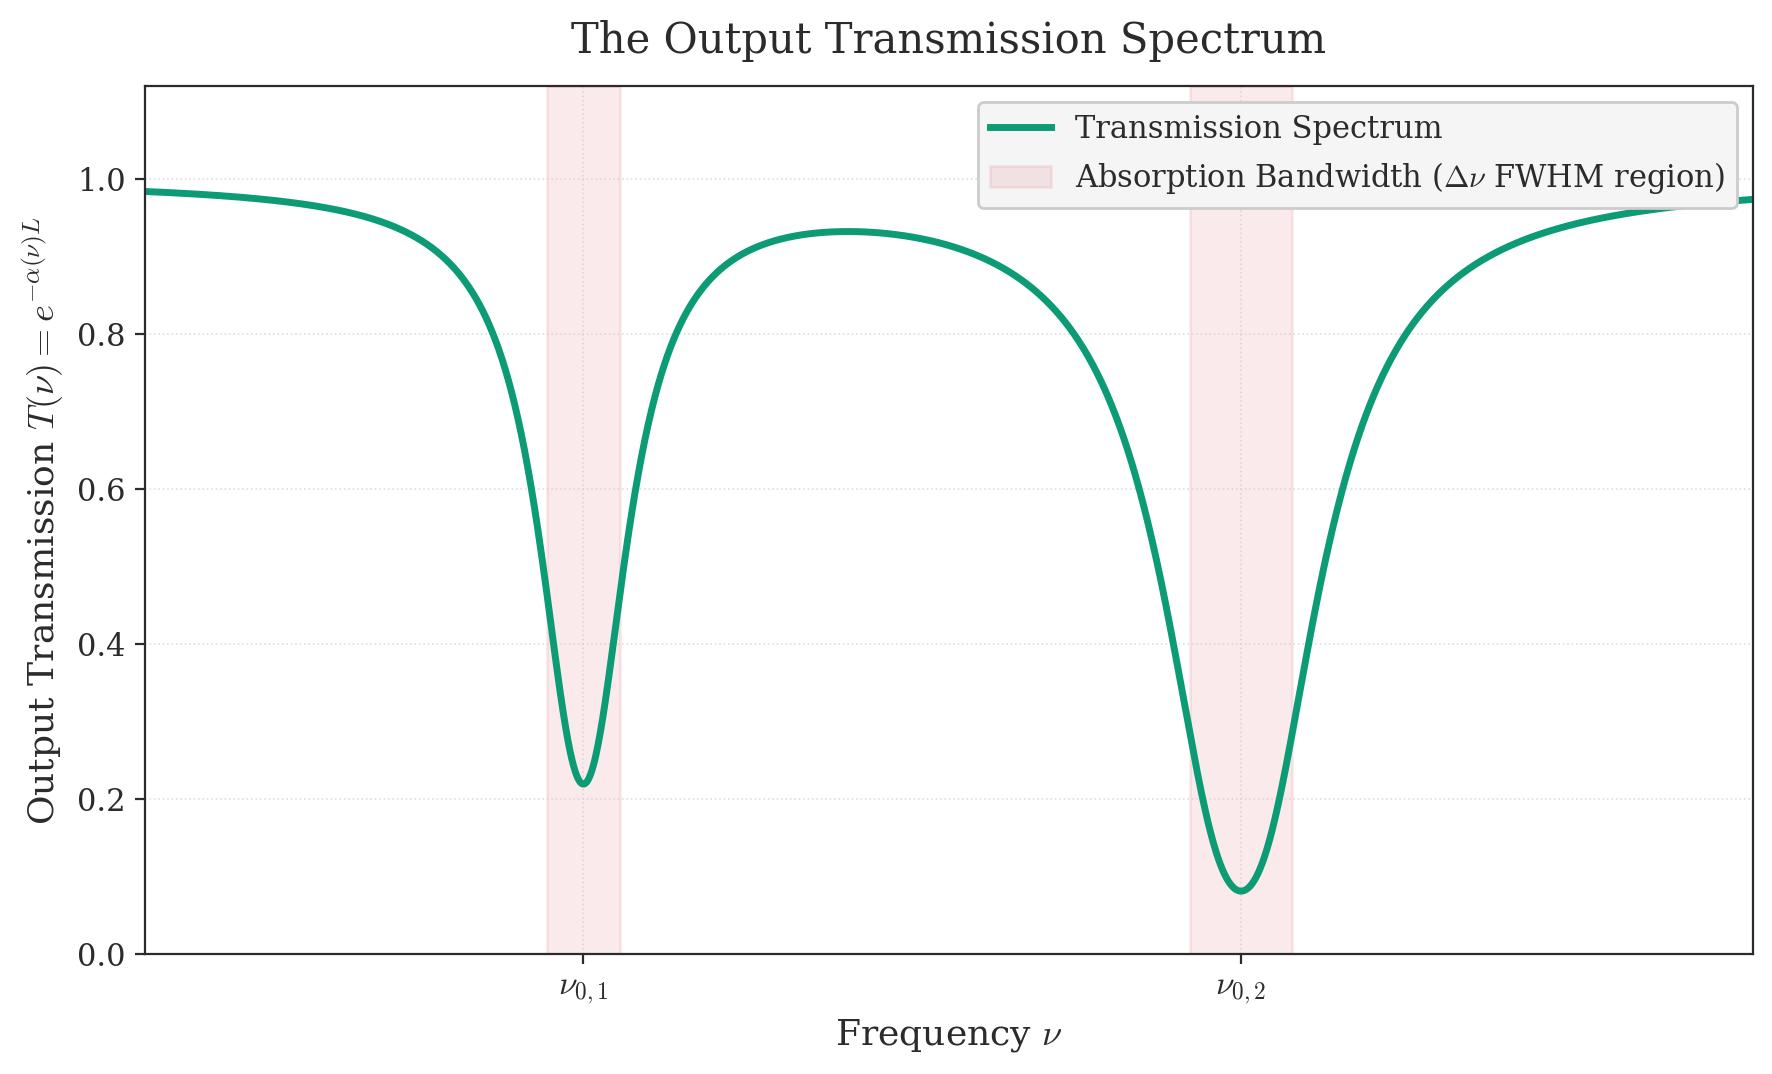
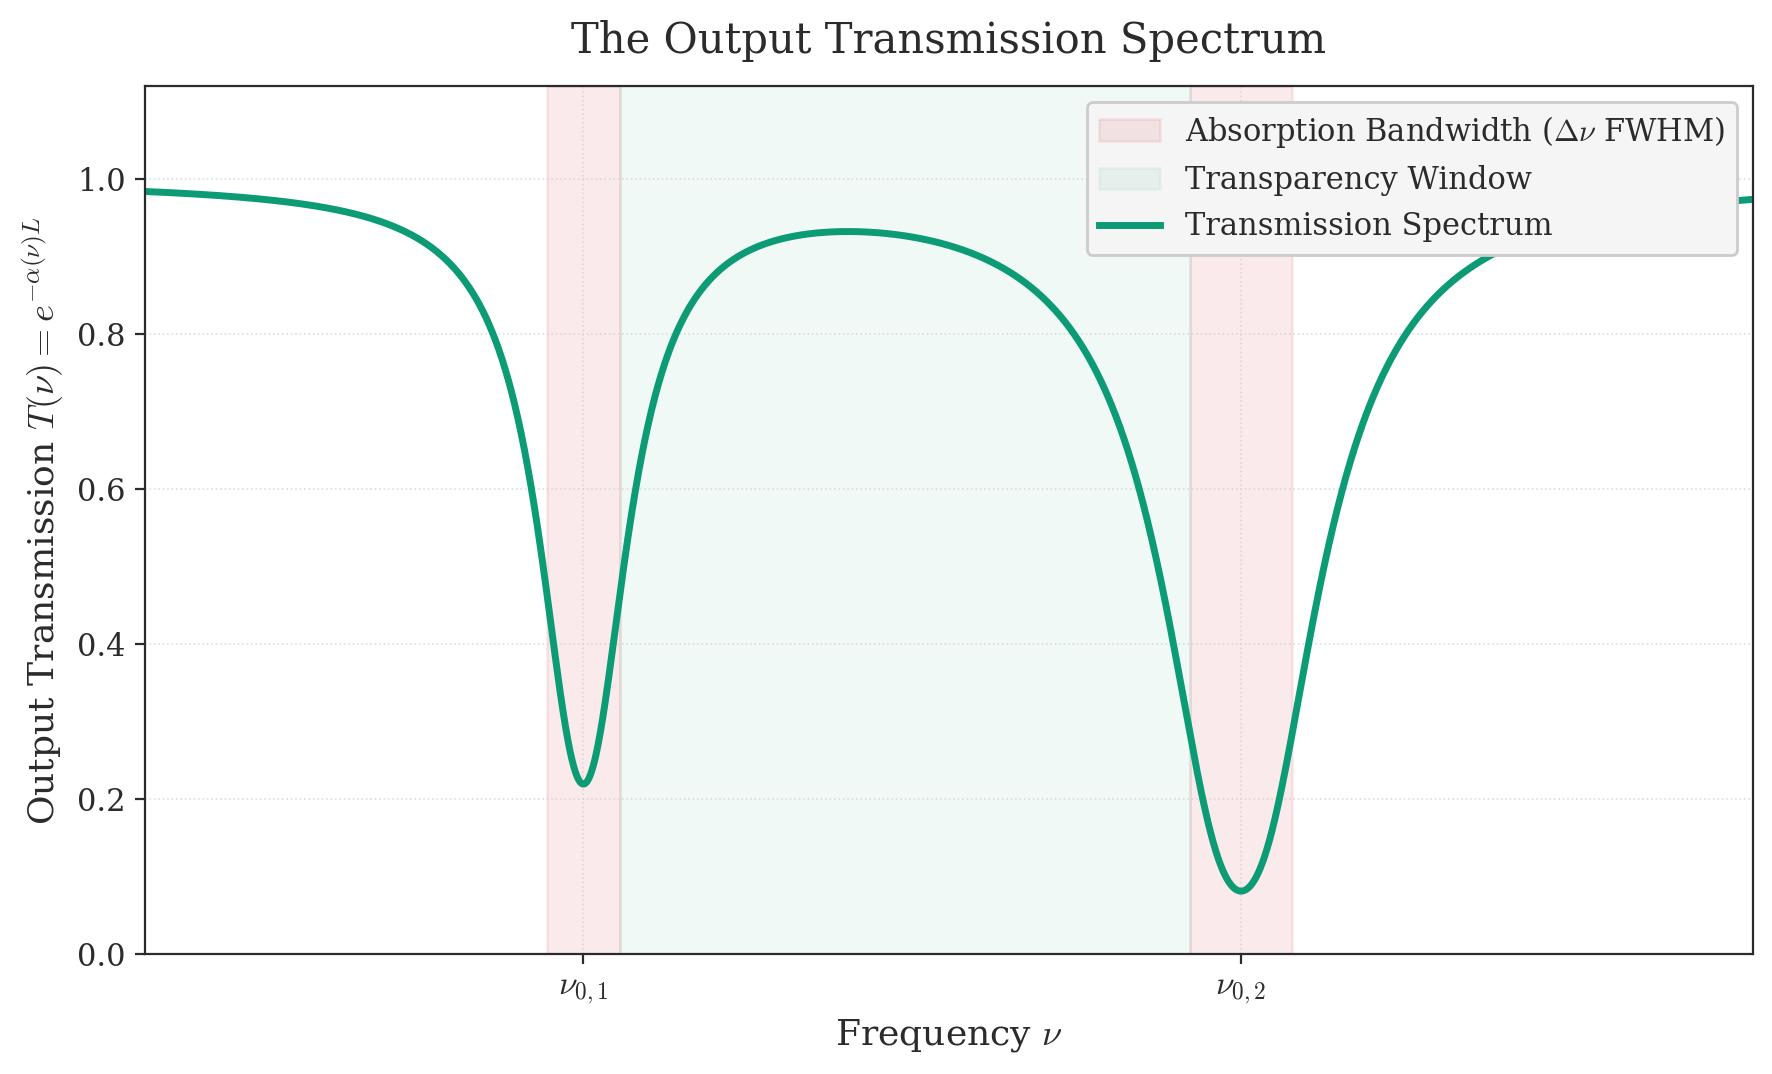
Refine figure-generation-style and update Chapter 1 plots philosophy

Changed region(s): [[0.5587, 0.0922, 0.9622, 0.2458], [0.9001, 0.0922, 0.9622, 0.1229]]

diff --git a/Complete_Study_Notes/Plots/Chapter 1 - Plots/generate_chapter_1_plots.py b/Complete_Study_Notes/Plots/Chapter 1 - Plots/generate_chapter_1_plots.py
@@ -4,10 +4,10 @@ generate_chapter_1_plots.py
 Generates all matplotlib figures for Chapter 1 of the Optoelectronics notes.
 
 Currently produces:
-  - 9.jpg  :  The Susceptibility Line Shapes (chi', chi'') vs normalised detuning δ,
+  - susceptibility_profiles.jpg  :  The Susceptibility Line Shapes (chi', chi'') vs normalised detuning δ,
                with the three key detuning cases annotated.
-  - 14.jpg :  The Output Transmission Spectrum with two Lorentzian absorption dips,
-               FWHM bandwidth shaded regions replacing the old arrow annotations.
+  - output_transmission_spectrum.jpg :  The Output Transmission Spectrum with two Lorentzian absorption dips.
+               FWHM bandwidth and transparency windows are shaded to avoid visual clutter.
 
 Run this script from any working directory.  The output image is saved
 alongside this script in the same folder.
@@ -55,26 +55,22 @@ plt.rcParams.update({
 })
 
 # ═══════════════════════════════════════════════════════════════════════════
-#  FIGURE 9  —  Susceptibility profiles χ'(δ) and χ''(δ)
+#  FIGURE 1  —  Susceptibility profiles χ'(δ) and χ''(δ)
 # ═══════════════════════════════════════════════════════════════════════════
 
 def plot_susceptibility_lineshapes():
     """
     χ'(δ)  = -δ / (1 + δ²)     [dispersive / real part]
     χ''(δ) = -1 / (1 + δ²)     [absorptive / imaginary part]
-
-    Both are normalised so their extrema sit at ±½ and -1 respectively.
-    The plot annotates the three detuning regimes discussed in the keyinsight:
-      • δ = 0   : χ' = 0 (zero crossing), χ'' peaks at -1
-      • |δ| = 1 : χ'' = -½ (half-max), χ' peaks at ±½
-      • |δ| ≫ 1 : both → 0 (far off-resonance)
     """
 
     δ = np.linspace(-5, 5, 4000)
 
-    chi_prime  = -δ       / (1 + δ**2)   # dispersive   (real part)
-    # Plotting the magnitude of absorption so it peaks upward, as is standard
-    chi_dprime = 1.0      / (1 + δ**2)   # absorptive   (imaginary part magnitude)
+    def calc_chi_prime(d): return -d / (1 + d**2)
+    def calc_chi_dprime(d): return 1.0 / (1 + d**2)
+
+    chi_prime = calc_chi_prime(δ)
+    chi_dprime = calc_chi_dprime(δ)
 
     fig, ax = plt.subplots(figsize=(9, 5.5))
     ax.set_facecolor(WHITE)
@@ -98,46 +94,31 @@ def plot_susceptibility_lineshapes():
                label=r"$|\delta|\gg 1$ (off-resonance, both $\to 0$)")
 
     # ── Concise Annotations ─────────────────────────────────────────────────
+    # We strictly calculate coordinates dynamically via the math functions.
 
     # Absorption peak
-    ax.plot(0, 1.0, 'o', color=TEAL, markersize=7)
-    ax.annotate(
-        r"$|\chi''|_{\max}$",
-        xy=(0, 1.0),
-        xytext=(-0.5, 1.08),
-        fontsize=12, color=TEAL,
-        ha="center", va="center"
-    )
+    p_abs = calc_chi_dprime(0.0)
+    ax.plot(0, p_abs, 'o', color=TEAL, markersize=7)
+    ax.annotate(r"$|\chi''|_{\max}$", xy=(0, p_abs), xytext=(-0.5, p_abs + 0.08),
+                fontsize=12, color=TEAL, ha="center", va="center")
 
     # Dispersion positive peak
-    ax.plot(-1.0, 0.5, 'o', color=CORAL, markersize=7)
-    ax.annotate(
-        r"$\chi'_{\max}$",
-        xy=(-1.0, 0.5),
-        xytext=(-1.6, 0.6),
-        fontsize=12, color=CORAL,
-        ha="center", va="center"
-    )
+    p_disp_pos = calc_chi_prime(-1.0)
+    ax.plot(-1.0, p_disp_pos, 'o', color=CORAL, markersize=7)
+    ax.annotate(r"$\chi'_{\max}$", xy=(-1.0, p_disp_pos), xytext=(-1.6, p_disp_pos + 0.1),
+                fontsize=12, color=CORAL, ha="center", va="center")
 
     # Dispersion negative peak
-    ax.plot(1.0, -0.5, 'o', color=CORAL, markersize=7)
-    ax.annotate(
-        r"$-\chi'_{\max}$",
-        xy=(1.0, -0.5),
-        xytext=(1.6, -0.6),
-        fontsize=12, color=CORAL,
-        ha="center", va="center"
-    )
+    p_disp_neg = calc_chi_prime(1.0)
+    ax.plot(1.0, p_disp_neg, 'o', color=CORAL, markersize=7)
+    ax.annotate(r"$-\chi'_{\max}$", xy=(1.0, p_disp_neg), xytext=(1.6, p_disp_neg - 0.1),
+                fontsize=12, color=CORAL, ha="center", va="center")
 
     # ── FWHM double-headed arrow on χ'' ─────────────────────────────────────
-    # |χ''| = ½ at δ = ±1  →  FWHM spans δ ∈ [-1, +1]
-    fwhm_y = 0.5
-    ax.annotate(
-        "", xy=(1, fwhm_y), xytext=(-1, fwhm_y),
-        arrowprops=dict(arrowstyle="<->", color=TEAL, lw=1.8),
-    )
-    ax.text(0, fwhm_y + 0.04, r"FWHM",
-            fontsize=9, color=TEAL, ha="center", va="bottom")
+    fwhm_y = calc_chi_dprime(1.0)
+    ax.annotate("", xy=(1.0, fwhm_y), xytext=(-1.0, fwhm_y),
+                arrowprops=dict(arrowstyle="<->", color=TEAL, lw=1.8))
+    ax.text(0, fwhm_y + 0.04, r"FWHM", fontsize=9, color=TEAL, ha="center", va="bottom")
 
     # ── Axes cosmetics ───────────────────────────────────────────────────────
     ax.set_xlim(-5, 5)
@@ -148,36 +129,28 @@ def plot_susceptibility_lineshapes():
     ax.grid(True)
     ax.xaxis.set_major_locator(ticker.MultipleLocator(1))
 
-    # Custom x-tick labels to highlight the key δ values
     ax.set_xticks([-5, -4, -3, -2, -1, 0, 1, 2, 3, 4, 5])
     ax.set_xticklabels([r"$-5$", r"$-4$", r"$-3$", r"$-2$", r"$-1$",
                          r"$0$",  r"$1$",  r"$2$",  r"$3$",  r"$4$",  r"$5$"])
 
-    legend = ax.legend(loc="upper right", framealpha=1,
-                       facecolor="#f5f5f5", edgecolor="#cccccc",
-                       labelcolor=AXES_CLR)
+    ax.legend(loc="upper right", framealpha=1, facecolor="#f5f5f5", edgecolor="#cccccc", labelcolor=AXES_CLR)
 
     fig.tight_layout()
-
-    out_path = os.path.join(OUT_DIR, "9.jpg")
+    out_path = os.path.join(OUT_DIR, "susceptibility_profiles.jpg")
     fig.savefig(out_path, dpi=200, bbox_inches="tight")
     print(f"Saved: {out_path}")
     plt.close(fig)
 
 
 # ═══════════════════════════════════════════════════════════════════════════
-#  FIGURE 14  —  Output Transmission Spectrum with shaded absorption bands
+#  FIGURE 2  —  Output Transmission Spectrum
 # ═══════════════════════════════════════════════════════════════════════════
 
 def plot_transmission_spectrum():
     """
     T(ν) = exp(−α₁(ν) − α₂(ν))  where αᵢ(ν) is a Lorentzian.
-
-    Output is saved to the same folder as this script for manual revision
-    before the user moves it to Figures/Chapter 1/.
-
-    Clean presentation: shaded FWHM bands communicate that absorption lines
-    are finite-bandwidth regions. No arrows, no callout labels, no centre lines.
+    Demonstrates "Shading First, Labels Second" rule by conveying the FWHM
+    bands and transparency window entirely with shaded backgrounds.
     """
     nu = np.linspace(0.0, 11.0, 6000)
 
@@ -185,27 +158,34 @@ def plot_transmission_spectrum():
     nu0_1, dnu_1, aL_1 = 3.0, 0.50, 1.50   # ν₀, FWHM, α_peak·L
     nu0_2, dnu_2, aL_2 = 7.5, 0.70, 2.50
 
-    # Lorentzian absorption profiles and total transmission
-    alpha_1 = aL_1 / (1.0 + ((nu - nu0_1) / (dnu_1 / 2.0))**2)
-    alpha_2 = aL_2 / (1.0 + ((nu - nu0_2) / (dnu_2 / 2.0))**2)
+    def calc_alpha(nu_val, nu0, dnu, aL):
+        return aL / (1.0 + ((nu_val - nu0) / (dnu / 2.0))**2)
+
+    alpha_1 = calc_alpha(nu, nu0_1, dnu_1, aL_1)
+    alpha_2 = calc_alpha(nu, nu0_2, dnu_2, aL_2)
     T = np.exp(-(alpha_1 + alpha_2))
 
-    # ── FWHM band boundaries (ν₀ ± Δν/2) ───────────────────────────────────
-    b1_lo, b1_hi = nu0_1 - dnu_1 / 2, nu0_1 + dnu_1 / 2   # 2.75 – 3.25
-    b2_lo, b2_hi = nu0_2 - dnu_2 / 2, nu0_2 + dnu_2 / 2   # 7.15 – 7.85
+    # ── FWHM band boundaries (calculated directly using math) ──────────────
+    b1_lo, b1_hi = nu0_1 - dnu_1 / 2, nu0_1 + dnu_1 / 2
+    b2_lo, b2_hi = nu0_2 - dnu_2 / 2, nu0_2 + dnu_2 / 2
 
     # ── Figure setup ────────────────────────────────────────────────────────
     fig, ax = plt.subplots(figsize=(9, 5.5))
     ax.set_facecolor(WHITE)
     fig.patch.set_facecolor(WHITE)
 
+    # ── FWHM Shading (drawn first so the curve sits on top) ─────────────────
+    ax.axvspan(b1_lo, b1_hi, alpha=0.11, color=CORAL,
+               label=r"Absorption Bandwidth ($\Delta\nu$ FWHM)")
+    ax.axvspan(b2_lo, b2_hi, alpha=0.11, color=CORAL)
+
+    # ── Transparency window shading (subtle definition of the gap region) ────
+    # Boundaries are exactly b1_hi and b2_lo so green starts precisely where red ends.
+    ax.axvspan(b1_hi, b2_lo, alpha=0.06, color=TEAL,
+               label="Transparency Window")
+
     # ── Transmission curve ───────────────────────────────────────────────────
     ax.plot(nu, T, color=TEAL, linewidth=2.5, label="Transmission Spectrum")
-
-    # ── FWHM shading (drawn first so the curve sits on top) ─────────────────
-    ax.axvspan(b1_lo, b1_hi, alpha=0.11, color=CORAL,
-               label=r"Absorption Bandwidth ($\Delta\nu$ FWHM region)")
-    ax.axvspan(b2_lo, b2_hi, alpha=0.11, color=CORAL)
 
     # ── Axes cosmetics ───────────────────────────────────────────────────────
     ax.set_xlim(0.0, 11.0)
@@ -217,14 +197,11 @@ def plot_transmission_spectrum():
     ax.set_title("The Output Transmission Spectrum", fontsize=15, pad=12)
     ax.grid(True)
 
-    legend = ax.legend(loc="upper right", framealpha=1,
-                       facecolor="#f5f5f5", edgecolor="#cccccc",
-                       labelcolor=AXES_CLR)
+    # Place legend clearly inside a white region
+    ax.legend(loc="upper right", framealpha=1, facecolor="#f5f5f5", edgecolor="#cccccc", labelcolor=AXES_CLR)
 
     fig.tight_layout()
-
-    # Save to same folder as script for revision before manual move
-    out_path = os.path.join(OUT_DIR, "14.jpg")
+    out_path = os.path.join(OUT_DIR, "output_transmission_spectrum.jpg")
     fig.savefig(out_path, dpi=200, bbox_inches="tight")
     print(f"Saved: {out_path}")
     plt.close(fig)
